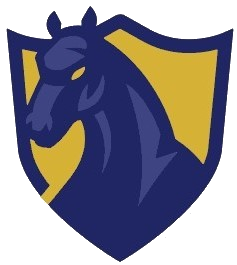
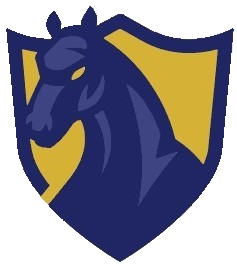
delete white space

diff --git a/index.html b/index.html
@@ -93,10 +93,9 @@
 		      	<!-- Huge Title centered --> 
 		      
 		        <div class="huge-title centered">  
-								 <div id="logo">
 
 					<a href="#"><img alt="HeadLogo" src="img/real.png"></a>
-		        </div>
+
 		          <div class="logo-phone centered"><img alt="YOURLOGO" src="img/logo-phone.p"></div>  <!-- This Logo is only displayed on Tablet/iPhone !-->  
 				
 		          <h1>Homestead Student Club Association</h1>
